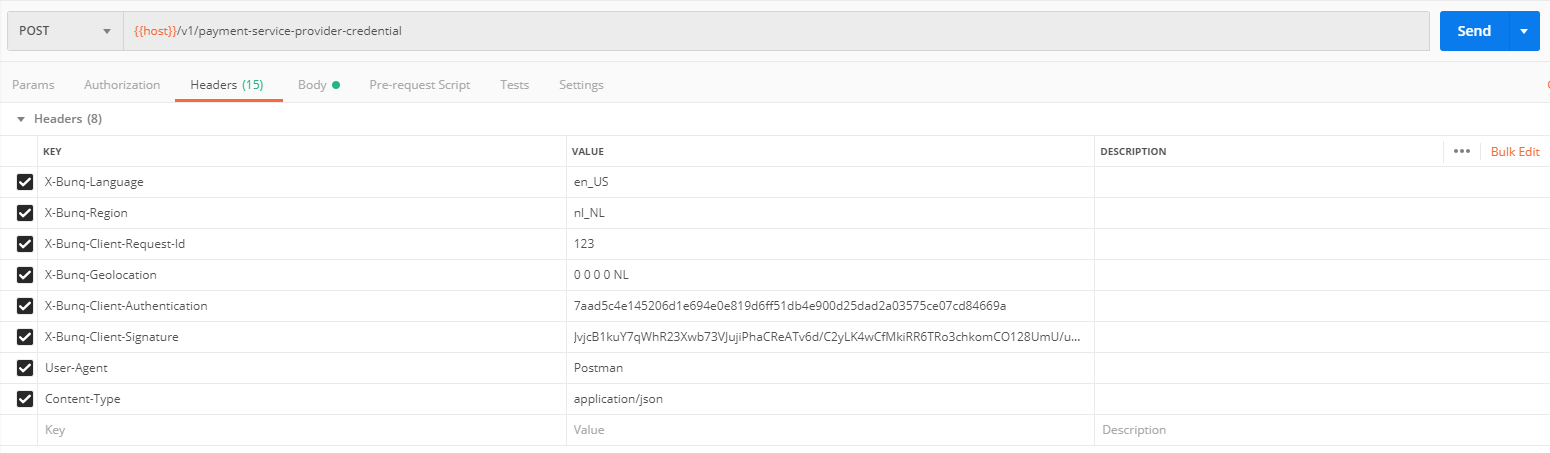
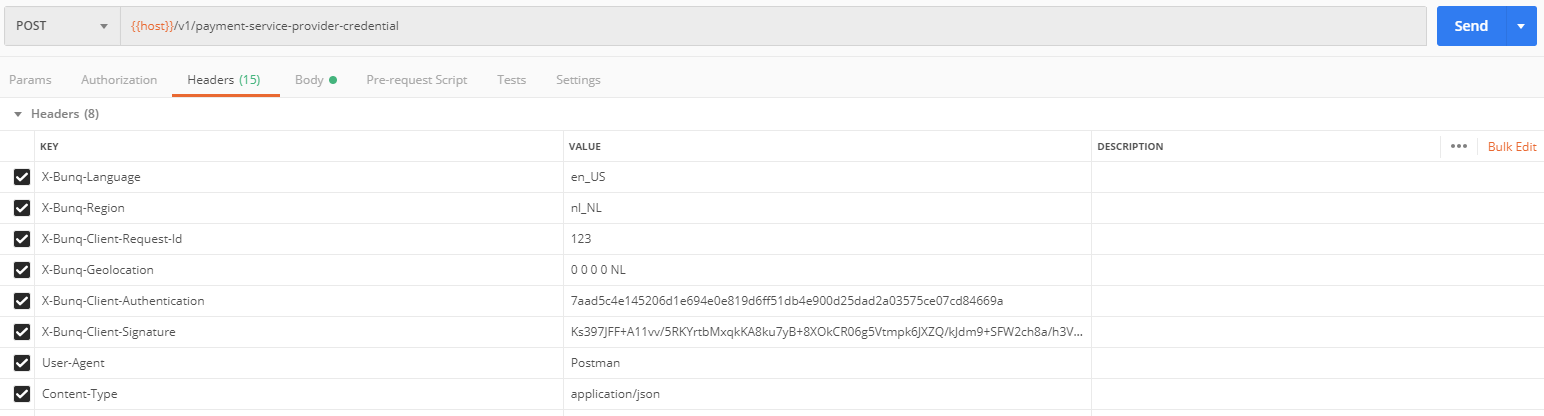
Use other cert+key and change JSON-body

diff --git a/README.md b/README.md
@@ -1,10 +1,10 @@
-# bunq PSD2 example
+# bunq PSD2 example, get PSP credential
 
 **Tested in the Sandbox environment.**
 
 PSD2 private key: See contents of **key.pem**  
-PSD2 public certificate: See contents of **cert.pem**  
-PSD2 public certificate chain: See contents of **cert.pem**  
+PSD2 public certificate: See contents of **cert.cert**  
+PSD2 public certificate chain: See contents of **cert.cert**  
 
 Client public key: See contents of **client_pub_key.pem**  
 Client private key: See contents of **client_key.pem**  
@@ -32,7 +32,7 @@ Create signature:
 
 Signature:  
 ```
[2 lines of base64/hex data omitted]
 ```
 
 HTTP request data to sign (Create value for **X-Bunq-Client-Signature** header): See contents of **HttpRequest.txt**
